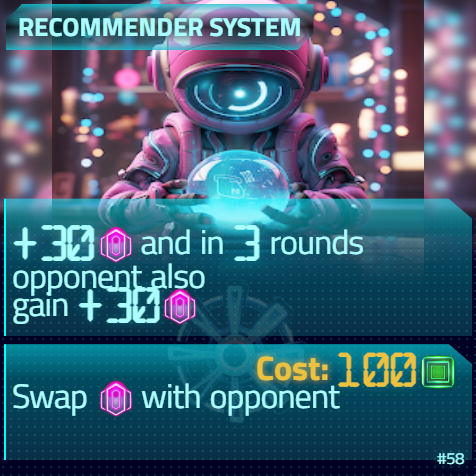
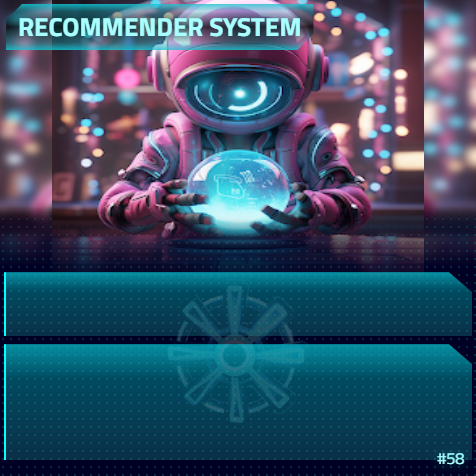
small tweaks

Changed region(s): [[0.0, 0.4118, 1.0, 0.7059], [0.0294, 0.7353, 0.9706, 0.8824]]

diff --git a/src/components/SingularityCards2.js b/src/components/SingularityCards2.js
@@ -294,7 +294,7 @@ const initialCards =[
     "img": "https://cdn.midjourney.com/d22dba27-cc34-49ee-bc4a-a29cbc66142f/0_0.png",
     "title": "Tensor Processing Unit",
     "action1": "Select optimizer algorithm",
-    "details1": "Gain up to +10 processing per Current Round number, capped at your processing , min 10 processing",
+    "details1": "Gain up to +10 processing per card in your discard pile, capped at your processing , min 10 processing",
     "action2": "Multiply the Matrix",
     "details2": "+10 Score per 20 Data spent",
     "cost": "All Data  min 20",
@@ -307,7 +307,7 @@ const initialCards =[
     "action1": "Explore Greedily",
     "details1": "Both players lose up to 20 data each\n",
     "action2": "Predict Q Values",
-    "details2": "Competition: Player with most Score after 3 \nmore rounds get +40 score",
+    "details2": "Competition: Player with most Score after 3 \nmore rounds get +50 score",
     "cost": "10 Data or 10 processing",
     "id": "3",
     "type": "base"
@@ -351,7 +351,7 @@ const initialCards =[
     "action1": "Deceive Discriminator",
     "details1": "Loan 30 data pay back up to 30 data in 2 rounds\n",
     "action2": "Begin Zero-Sum Game",
-    "details2": "Competition: The player with the most processing after 3 \nmore rounds gets +40 score",
+    "details2": "Competition: The player with the most processing after 3 \nmore rounds gets +50 score",
     "cost": "10 Data or 20 processing",
     "id": 8,
     "type": "hc"
@@ -362,7 +362,7 @@ const initialCards =[
     "action1": "Detect objects",
     "details1": "Next round you get double processing from all actions affecting you",
     "action2": "Tune model",
-    "details2": "Competition: The player with the most data after 3 \nmore rounds gets +40 score",
+    "details2": "Competition: The player with the most data after 3 \nmore rounds gets +50 score",
     "cost": "20 Data  or 10 processing",
     "id": "9",
     "type": "base"
@@ -470,7 +470,7 @@ const initialCards =[
     "img": "https://cdn.midjourney.com/ce7a068b-e03e-4893-82e7-378a5116ee19/0_1.webp",
     "title": "Cyborg",
     "action1": "Ascend Humanity",
-    "details1": "+10 processing per 10 processing you have more than opponent",
+    "details1": "+10 processing per 20 processing you have more than opponent",
     "action2": "Assemble the AI-Team",
     "details2": "All delayed cards in opponents discard move to yours and their targets flipped",
     "cost": "30 data or 30 processing",
@@ -492,7 +492,7 @@ const initialCards =[
     "img": "/chatgpt-apps3/static/media/tower.5c61c3eeabffa5daa77b.png",
     "title": "5G Network",
     "action1": "Connect remotely",
-    "details1": "Next round all Data gain is doubled for both players",
+    "details1": "Next round all change in Data is doubled for both players",
     "action2": "Roll over data",
     "details2": "+10 data per 10 processing spent or +10 processing per 10 data spent",
     "cost": "All data or All processing",
@@ -527,7 +527,7 @@ const initialCards =[
     "action1": "Assemble Selectively and Comply",
     "details1": "+20 data if you have less data than opponent \n",
     "action2": "Pick and Place",
-    "details2": "Competition: +40 score to player with most cards in their discard pile after last round",
+    "details2": "Competition: +50 score to player with most cards in their discard pile after last round",
     "cost": "20 data or 20 processing",
     "id": "41",
     "type": "hc"
@@ -536,7 +536,7 @@ const initialCards =[
     "img": "https://cdn.midjourney.com/93e53cee-c8c9-4eea-98c3-bd22211979db/0_1.webp",
     "title": "SuperComputer",
     "action1": "Benchmark LINPACK",
-    "details1": "Set your data to 30",
+    "details1": "Set your data or processing to 30",
     "action2": "Achieve petaflop",
     "details2": "+10 score per 10  of your lowest data or processing",
     "cost": "All data and All Processing",
@@ -558,7 +558,7 @@ const initialCards =[
     "img": "/chatgpt-apps3/static/media/siri.294b839874cae4456ae2.png",
     "title": "Digital Assistant",
     "action1": "Set timer",
-    "details1": "+20 processing per card in your discard pile with \"Data\" in its name",
+    "details1": "+10 data per card in your discard pile with \"Data\" in its name",
     "action2": "Record secretly",
     "details2": "Next round you get double data and processing from all actions affecting you",
     "cost": "30 data or 30 processing",
@@ -569,7 +569,7 @@ const initialCards =[
     "img": "/chatgpt-apps3/static/media/vaccum.501d3a55ab7c826d6a7e.png",
     "title": "Robot vacuum",
     "action1": "Map home",
-    "details1": "+10 processing per card in your discard pile",
+    "details1": "+30 data and in 3 \nrounds opponent also <br> gain +30 data",
     "action2": "Clean floors",
     "details2": "Reveal 1 card change all data and processing to the other on both actions and cost, for rest of game",
     "cost": "20 data or 20 processing",
@@ -591,9 +591,9 @@ const initialCards =[
     "img": "/chatgpt-apps3/static/media/vpn.d72c4efcc9f1c885ce2d.png",
     "title": "Virtual Private Network ",
     "action1": "Tunnel TV",
-    "details1": "+30 processing",
+    "details1": "+20 data or +20 processing",
     "action2": "Trick tyrant",
-    "details2": "Competition: Any player with \"Data Protection\" in their discard pile at game end get +40 score",
+    "details2": "Competition: Any player with \"Data Protection\" in their discard pile at game end get +50 score",
     "cost": "20 data or 20 processing",
     "id": "51",
     "type": "v3"
@@ -602,7 +602,7 @@ const initialCards =[
     "img": "https://cdn.midjourney.com/0b858164-a9eb-4590-9daf-d2a945f56404/0_1.png",
     "title": "Firewall",
     "action1": "Block incoming traffic ",
-    "details1": "+10 data per card in your opponents discard pile",
+    "details1": "+20 processing per card difference between discard piles",
     "action2": "Disable \"temporarily\"",
     "details2": "+40 data",
     "cost": "20 data or 20 processing",
@@ -613,7 +613,7 @@ const initialCards =[
     "img": "/chatgpt-apps3/static/media/tree.57ad537fdab3bf9b9019.png",
     "title": "Decision Tree",
     "action1": "Plant root node",
-    "details1": "+20 processing per card difference between discard piles",
+    "details1": "+20 data or +20 processing",
     "action2": "Prune leaf",
     "details2": "Reveal 1 \ncard from hand and play the free action of that card 2\ntimes\n",
     "cost": "20 data or 20 processing",
@@ -635,10 +635,10 @@ const initialCards =[
     "img": "/chatgpt-apps3/static/media/seer.0f5038bfff94f4cffd5a.png",
     "title": "Recommender System",
     "action1": "Continue watching and don't ask again",
-    "details1": "+30 data and in 3 \nrounds opponent also <br> gain +30 data",
+    "details1": "",
     "action2": "Filter presidents ",
-    "details2": "Swap Data with opponent",
-    "cost": "100 processing",
+    "details2": "",
+    "cost": "",
     "id": "58",
     "type": "v3"
   },
